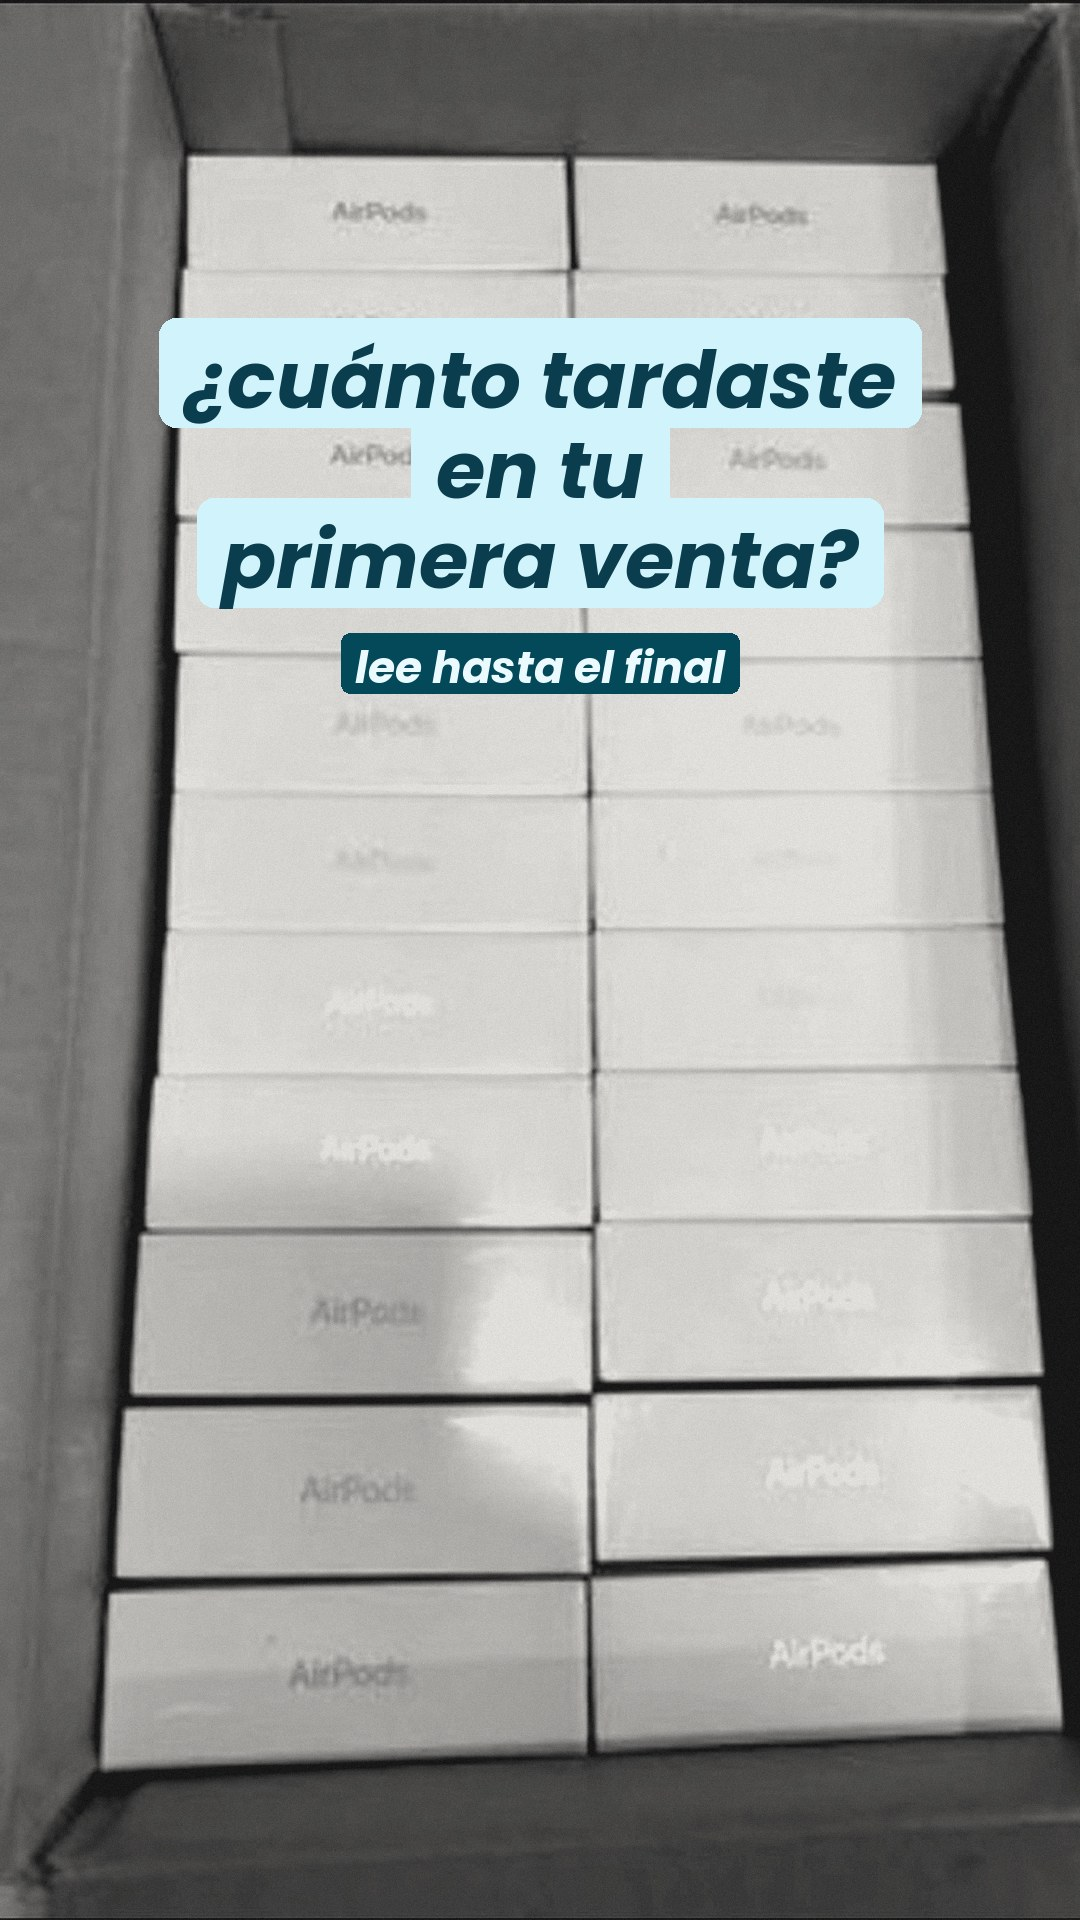
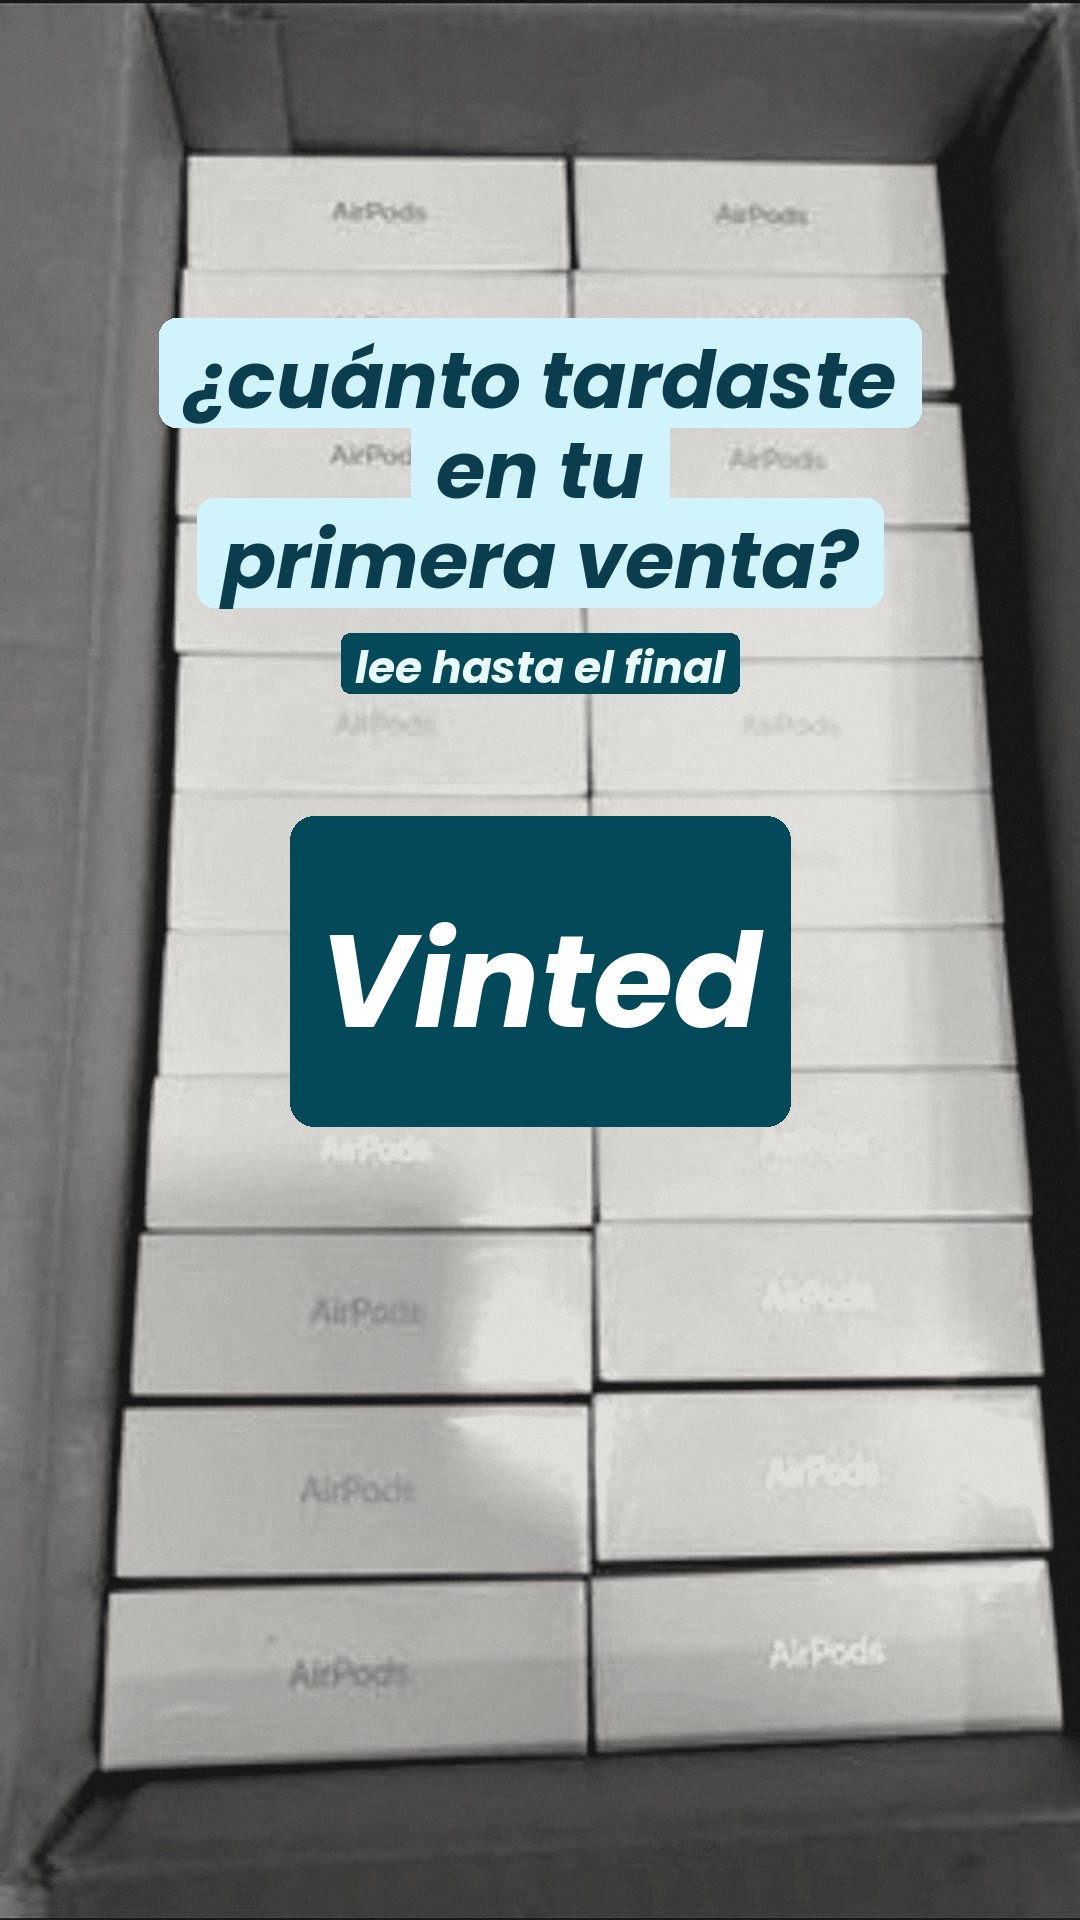
Sello de Vinted siempre en la portada
Claude-Session: https://claude.ai/code/session_01Ca3T13gZFPfsd5TNNRnUG1

Changed region(s): [[0.2444, 0.4062, 0.7333, 0.5938]]

diff --git a/estilo.md b/estilo.md
@@ -89,7 +89,7 @@ Antes de escribir, lee los últimos 10 carruseles de historial.json y NO repitas
 Varía también:
 - **Formato de portada**: pregunta ("¿Sabes por qué no vendes en Vinted?"), lista ("3 errores que…"), historia ("Cuando empecé a revender…"), polémica ("Nadie te dice esto de los proveedores"), reto ("Si tienes 50€, haz esto").
 - **Línea pequeña de la portada**: "quédate hasta el final", "el último es el más importante", "guárdalo para luego", "lee hasta el final", "el 3 te va a sorprender"… o ninguna.
-- **Marca VINTED**: solo en 1 de cada 2 portadas, y a veces "WALLAPOP" o nada si el tema no es de Vinted.
+- **Sello de Vinted en la portada: SIEMPRE** ("vinted": true en la plantilla aritz, "marca": "VINTED" en la normal). Aritz lo pidió el 12 oct.
 - **CTA** (rota, siempre con la palabra “proveedores”):
   "Comenta “proveedores” y te paso el link" · "Escribe “proveedores” y te los mando" · "¿Los quieres? Comenta “proveedores”" · "Comenta “proveedores” y te digo cuáles uso" · "Te dejo mis proveedores: comenta “proveedores”"
   + a veces "Link en la bio !!", a veces "Están en mi bio", a veces nada más.
